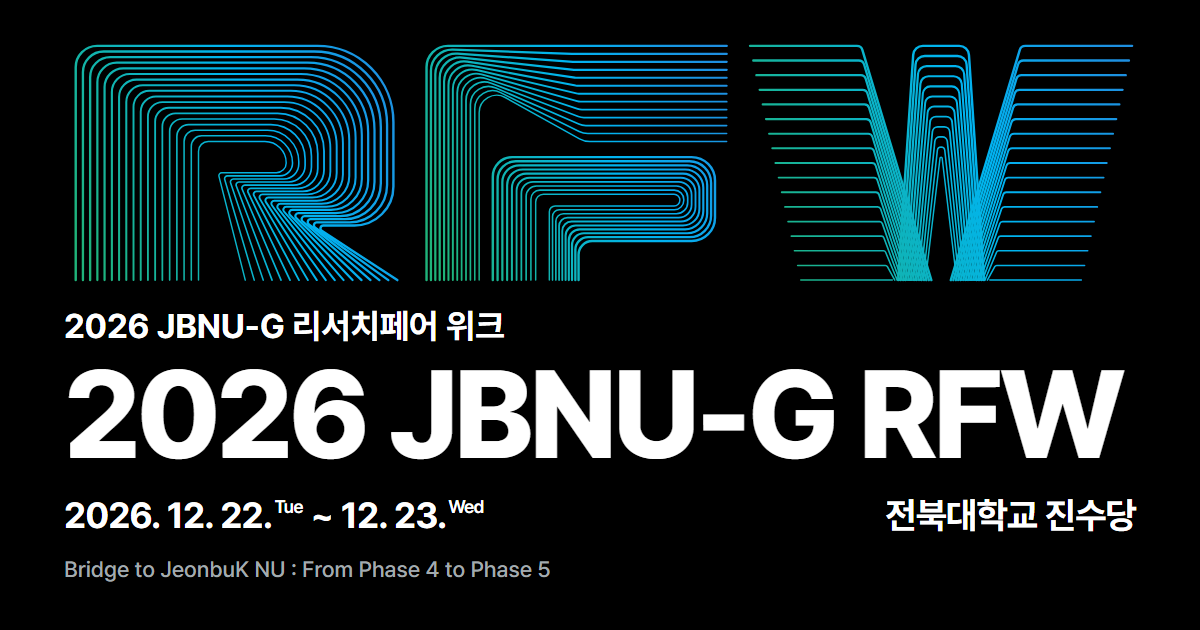
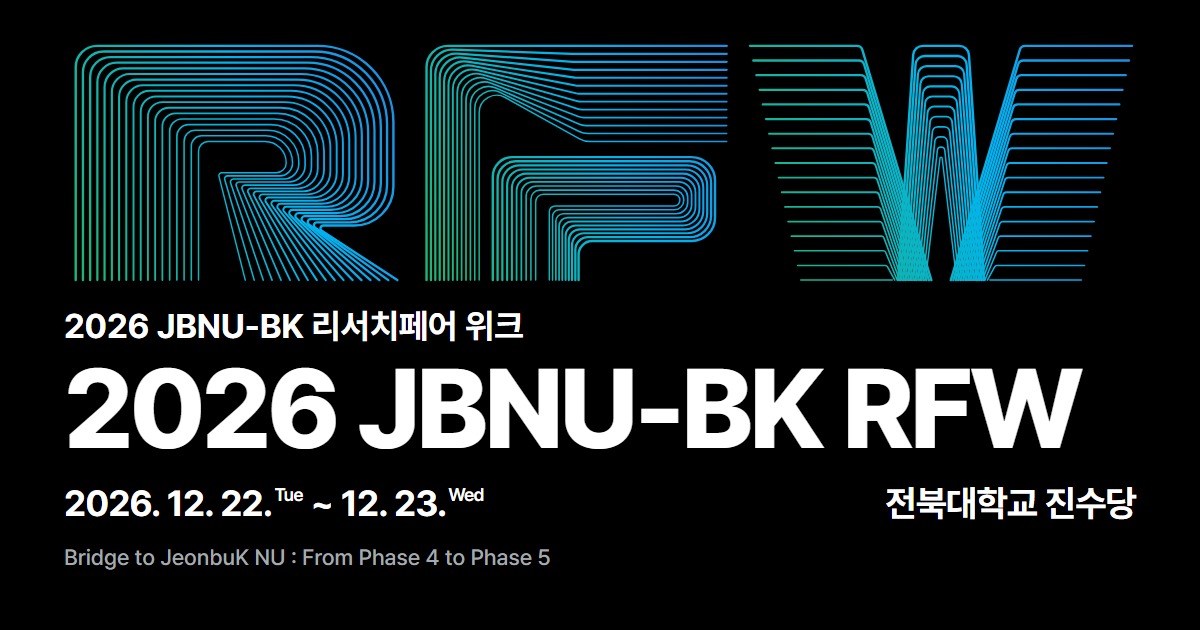
Rename event to JBNU-BK 리서치페어 위크 (client request); keep English hero title on one line

diff --git a/web/js/i18n.js b/web/js/i18n.js
@@ -8,8 +8,8 @@ window.RFW_I18N = {
 
     hero: {
       rfwAlt: "RFW — 리서치페어 위크 대표 그래픽",
-      nameKo: "2026 JBNU-G 리서치페어 위크",   // 작은 국문 행사명
-      nameEn: "2026 JBNU-G RFW",               // 초대형 영문 행사명
+      nameKo: "2026 JBNU-BK 리서치페어 위크",   // 작은 국문 행사명
+      nameEn: "2026 JBNU-BK RFW",               // 초대형 영문 행사명
       dateStart: { y: "2026.", md: "12. 22.", dow: "Tue" },
       dateEnd: { md: "12. 23.", dow: "Wed" },
       place: "전북대학교 진수당",
@@ -18,8 +18,8 @@ window.RFW_I18N = {
 
     // ── 4장 양식 원문 (수정 금지) ──
     intro: {
-      title: "2026 JBNU-G 리서치페어 위크 참가 신청",
-      body: "전북대학교의 연구성과를 나누고 대학과 지역의 미래 발전 방향을 함께 모색하는 2026 JBNU-G 리서치페어 위크에 여러분을 초대합니다. 대학원생과 연구자의 발표를 통해 BK21 4단계의 성과를 살펴보고, 이를 바탕으로 5단계의 추진 과제와 지역 기업·연구기관과의 새로운 협력 기회를 논의합니다.",
+      title: "2026 JBNU-BK 리서치페어 위크 참가 신청",
+      body: "전북대학교의 연구성과를 나누고 대학과 지역의 미래 발전 방향을 함께 모색하는 2026 JBNU-BK 리서치페어 위크에 여러분을 초대합니다. 대학원생과 연구자의 발표를 통해 BK21 4단계의 성과를 살펴보고, 이를 바탕으로 5단계의 추진 과제와 지역 기업·연구기관과의 새로운 협력 기회를 논의합니다.",
       schedule: "▪일정 : 2026년 12월 22일(화)~23일(수)",
       venue: "▪장소 : 전북대학교 진수당"
     },
@@ -122,16 +122,16 @@ window.RFW_I18N = {
     topbar: { brand: "JBNU BK21 · Research Fair Week", dates: "Dec 22 – 23, 2026", toggle: "한", toggleLabel: "한국어로 보기" },
     hero: {
       rfwAlt: "RFW — Research Fair Week key graphic",
-      nameKo: "2026 JBNU-G Research Fair Week",
-      nameEn: "2026 JBNU-G RFW",
+      nameKo: "2026 JBNU-BK Research Fair Week",
+      nameEn: "2026 JBNU-BK RFW",
       dateStart: { y: "2026.", md: "12. 22.", dow: "Tue" },
       dateEnd: { md: "12. 23.", dow: "Wed" },
       place: "Jinsudang, Jeonbuk National University",
       slogan: "Bridge to JeonbuK NU : From Phase 4 to Phase 5"
     },
     intro: {
-      title: "2026 JBNU-G Research Fair Week Registration",
-      body: "You are invited to the 2026 JBNU-G Research Fair Week, where we share Jeonbuk National University's research achievements and explore the future of the university and the region together. Through presentations by graduate students and researchers, we will review the achievements of BK21 Phase 4 and discuss Phase 5 initiatives and new opportunities for collaboration with local companies and research institutes.",
+      title: "2026 JBNU-BK Research Fair Week Registration",
+      body: "You are invited to the 2026 JBNU-BK Research Fair Week, where we share Jeonbuk National University's research achievements and explore the future of the university and the region together. Through presentations by graduate students and researchers, we will review the achievements of BK21 Phase 4 and discuss Phase 5 initiatives and new opportunities for collaboration with local companies and research institutes.",
       schedule: "▪Date : Dec 22 (Tue) – 23 (Wed), 2026",
       venue: "▪Venue : Jinsudang, Jeonbuk National University"
     },

diff --git a/admin/js/admin.js b/admin/js/admin.js
@@ -23,8 +23,8 @@
   var EMAIL_RE = /^[^\s@]+@[^\s@]+\.[^\s@]{2,}$/;
   var ID_RE = /^[a-z0-9_-]{1,24}$/;
   var ORIGINAL = {
-    title: '2026 JBNU-G 리서치페어 위크 참가 신청',
-    intro: '전북대학교의 연구성과를 나누고 대학과 지역의 미래 발전 방향을 함께 모색하는 2026 JBNU-G 리서치페어 위크에 여러분을 초대합니다. 대학원생과 연구자의 발표를 통해 BK21 4단계의 성과를 살펴보고, 이를 바탕으로 5단계의 추진 과제와 지역 기업·연구기관과의 새로운 협력 기회를 논의합니다.',
+    title: '2026 JBNU-BK 리서치페어 위크 참가 신청',
+    intro: '전북대학교의 연구성과를 나누고 대학과 지역의 미래 발전 방향을 함께 모색하는 2026 JBNU-BK 리서치페어 위크에 여러분을 초대합니다. 대학원생과 연구자의 발표를 통해 BK21 4단계의 성과를 살펴보고, 이를 바탕으로 5단계의 추진 과제와 지역 기업·연구기관과의 새로운 협력 기회를 논의합니다.',
     when: '▪일정 : 2026년 12월 22일(화)~23일(수) ▪장소 : 전북대학교 진수당',
     lead: '참가를 희망하시는 분은 아래 항목을 작성해 주세요.',
     notice: '신청하시면 행사 전에 행사 관련 자료를 이메일로 보내 드려요.',
@@ -168,7 +168,7 @@
     $all('[data-nav]').forEach(function (a) {
       if (a.getAttribute('data-nav') === v) a.setAttribute('aria-current', 'page'); else a.removeAttribute('aria-current');
     });
-    document.title = $('#h-' + v).textContent + ' · 2026 JBNU-G 리서치페어 위크 관리자';
+    document.title = $('#h-' + v).textContent + ' · 2026 JBNU-BK 리서치페어 위크 관리자';
     if (v === 'dashboard') { if (!S.summary) loadSummary(); else { renderSummary(); } }
     if (v === 'list') loadList();
     if (v === 'export') { renderExport(); loadExportLog(); }
@@ -512,7 +512,7 @@
   function statsAoa(s, who) {
     var b = s.byDay, sc = sumOf(s.daily, 'canceled'), sr = sumOf(s.daily, 'restored');
     return [
-      ['2026 JBNU-G 리서치페어 위크 사전 접수 통계'],
+      ['2026 JBNU-BK 리서치페어 위크 사전 접수 통계'],
       ['기준 일시', fmtDT(s.generatedAt, true)],
       ['내보낸 사람', who || ''],
       ['용어', '유효 신청 = 지금 상태가 ‘신청’인 건(취소 제외). 양일 신청자는 22일·23일 예상 인원에 모두 더함.'],
@@ -1136,7 +1136,7 @@
     // 소속 구분·프로그램 이름표가 필요해 설정을 먼저 확보(못 받으면 id 그대로 나간다)
     ensureRef().then(function () { return API.adminLogExport(kind, f); }).then(function (res) {
       var rows = res.rows, done;
-      var meta = [['행사', '2026 JBNU-G 리서치페어 위크'], ['내보낸 일시', fmtDT(res.entry.at, true)], ['내보낸 사람', res.entry.email], ['조건', f.label]];
+      var meta = [['행사', '2026 JBNU-BK 리서치페어 위크'], ['내보낸 일시', fmtDT(res.entry.at, true)], ['내보낸 사람', res.entry.email], ['조건', f.label]];
       if (kind === 'csv') {
         downloadCsv([COLS].concat(rows.map(rowAoa)), 'RFW2026_신청자_' + stamp() + '.csv');
         done = fmtN(rows.length) + '건';

diff --git a/web/index.html b/web/index.html
@@ -3,21 +3,21 @@
 <head>
   <meta charset="utf-8">
   <meta name="viewport" content="width=device-width, initial-scale=1, viewport-fit=cover">
-  <title>2026 JBNU-G 리서치페어 위크 참가 신청</title>
-  <meta name="description" content="전북대학교의 연구성과를 나누고 대학과 지역의 미래 발전 방향을 함께 모색하는 2026 JBNU-G 리서치페어 위크. 2026년 12월 22일(화)~23일(수), 전북대학교 진수당. 무료 사전 참가 신청.">
+  <title>2026 JBNU-BK 리서치페어 위크 참가 신청</title>
+  <meta name="description" content="전북대학교의 연구성과를 나누고 대학과 지역의 미래 발전 방향을 함께 모색하는 2026 JBNU-BK 리서치페어 위크. 2026년 12월 22일(화)~23일(수), 전북대학교 진수당. 무료 사전 참가 신청.">
   <meta name="theme-color" content="#000000">
   <meta name="color-scheme" content="dark">
 
   <meta property="og:type" content="website">
   <meta property="og:locale" content="ko_KR">
-  <meta property="og:site_name" content="2026 JBNU-G 리서치페어 위크">
-  <meta property="og:title" content="2026 JBNU-G 리서치페어 위크 참가 신청">
+  <meta property="og:site_name" content="2026 JBNU-BK 리서치페어 위크">
+  <meta property="og:title" content="2026 JBNU-BK 리서치페어 위크 참가 신청">
   <meta property="og:description" content="2026. 12. 22(화) ~ 23(수) · 전북대학교 진수당 · 무료 사전 신청">
   <meta property="og:url" content="https://rfw2026.pages.dev/">
   <meta property="og:image" content="https://rfw2026.pages.dev/assets/og-image.png">
   <meta property="og:image:width" content="1200">
   <meta property="og:image:height" content="630">
-  <meta property="og:image:alt" content="2026 JBNU-G RFW">
+  <meta property="og:image:alt" content="2026 JBNU-BK RFW">
   <meta name="twitter:card" content="summary_large_image">
 
   <link rel="preconnect" href="https://cdn.jsdelivr.net" crossorigin>

diff --git a/tools/og-image.html b/tools/og-image.html
@@ -19,7 +19,7 @@
   }
   .rfw { display: block; width: 100%; height: auto; }
   .kr { margin: 22px 0 0; font-size: 34px; font-weight: 700; line-height: 1.2; }
-  .en { margin: 6px 0 0; font-size: 124px; font-weight: 800; line-height: 1; letter-spacing: -0.035em; }
+  .en { margin: 6px 0 0; font-size: 112px; font-weight: 800; line-height: 1; letter-spacing: -0.035em; }
   .when {
     display: flex; justify-content: space-between; align-items: baseline;
     margin: 18px 0 0; font-size: 36px; font-weight: 700; line-height: 1.2; letter-spacing: -0.02em;
@@ -30,8 +30,8 @@
 </head>
 <body>
   <img class="rfw" src="../web/assets/rfw.svg" alt="RFW">
-  <p class="kr">2026 JBNU-G 리서치페어 위크</p>
-  <p class="en">2026 JBNU-G RFW</p>
+  <p class="kr">2026 JBNU-BK 리서치페어 위크</p>
+  <p class="en">2026 JBNU-BK RFW</p>
   <p class="when">
     <span>2026. 12. 22.<sup>Tue</sup> ~ 12. 23.<sup>Wed</sup></span>
     <span>전북대학교 진수당</span>

diff --git a/admin/index.html b/admin/index.html
@@ -4,7 +4,7 @@
   <meta charset="utf-8">
   <meta name="viewport" content="width=device-width, initial-scale=1">
   <meta name="robots" content="noindex, nofollow">
-  <title>관리자 · 2026 JBNU-G 리서치페어 위크</title>
+  <title>관리자 · 2026 JBNU-BK 리서치페어 위크</title>
   <link rel="stylesheet" href="https://cdn.jsdelivr.net/gh/orioncactus/pretendard@v1.3.9/dist/web/variable/pretendardvariable-dynamic-subset.min.css">
   <link rel="stylesheet" href="../web/css/tokens.css">
   <link rel="stylesheet" href="css/admin.css">
@@ -16,7 +16,7 @@
     <div class="topbar__brand">
       <span class="topbar__mark" aria-hidden="true">RFW</span>
       <div class="topbar__titles">
-        <span class="topbar__event">2026 JBNU-G 리서치페어 위크</span>
+        <span class="topbar__event">2026 JBNU-BK 리서치페어 위크</span>
         <span class="topbar__role">접수 관리자</span>
       </div>
     </div>

diff --git a/web/css/app.css b/web/css/app.css
@@ -104,8 +104,8 @@ button { cursor: pointer; }
 }
 .hero__en {
   display: block; margin-top: 4px;
-  font-size: clamp(34px, 9.6vw, 96px); /* 컨테이너 단위 미지원 브라우저용 */
-  font-size: clamp(34px, 11cqi, 120px);
+  font-size: clamp(30px, 8.6vw, 88px); /* 컨테이너 단위 미지원 브라우저용 */
+  font-size: clamp(30px, 10cqi, 110px); /* 「2026 JBNU-BK RFW」 한 줄 */
   font-weight: 900; line-height: 1; letter-spacing: -0.035em;
 }
 

diff --git a/PRODUCT.md b/PRODUCT.md
@@ -27,7 +27,7 @@ web
 
 ## Product Purpose
 
-2026 JBNU-G 리서치페어 위크(2026. 12. 22–23, 전북대학교 진수당, 무료·사전 신청)의 사전 참가 신청을 받는 한 페이지 접수 사이트와 관리자 화면. 주최 전북대학교 BK21, 운영 케이브레인컴퍼니.
+2026 JBNU-BK 리서치페어 위크(2026. 12. 22–23, 전북대학교 진수당, 무료·사전 신청)의 사전 참가 신청을 받는 한 페이지 접수 사이트와 관리자 화면. 주최 전북대학교 BK21, 운영 케이브레인컴퍼니.
 
 성공 기준: 처음 온 사람이 휴대폰에서 1분 안에 신청을 끝낸다(내부 테스터 5명 기준). 운영사무국은 참석일별 인원과 명단을 언제든 정확히 확인하고 내보낸다.
 
